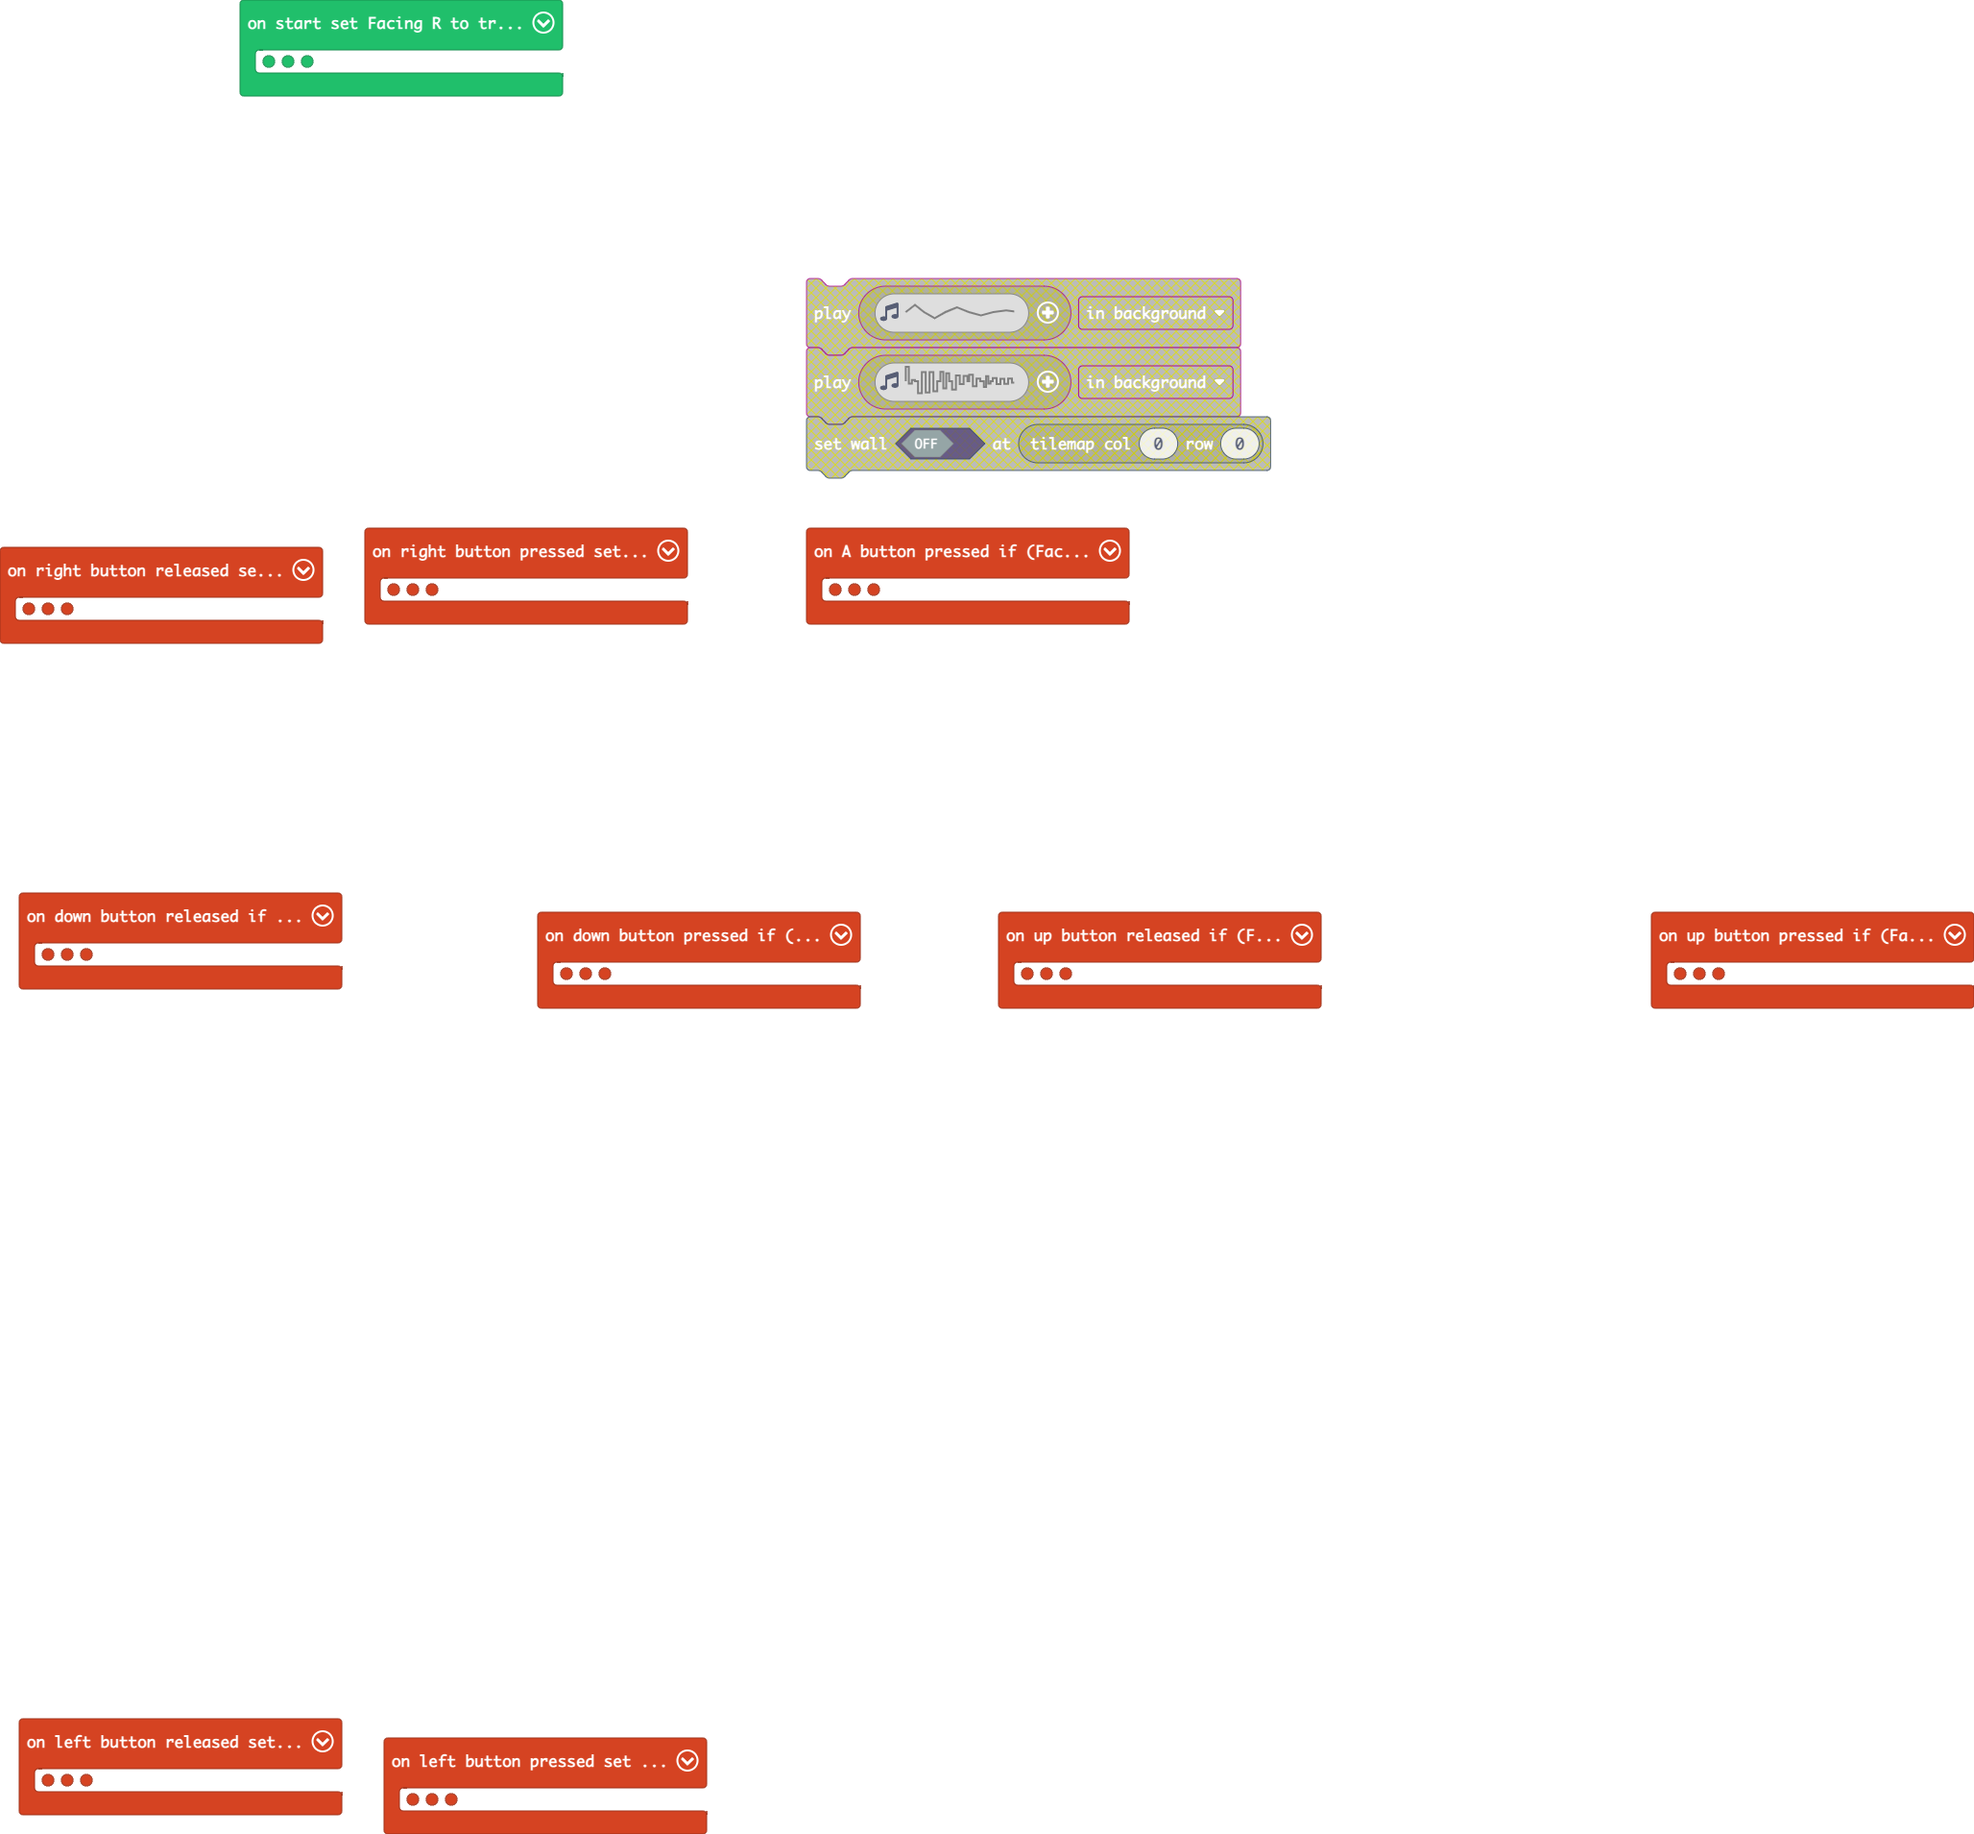
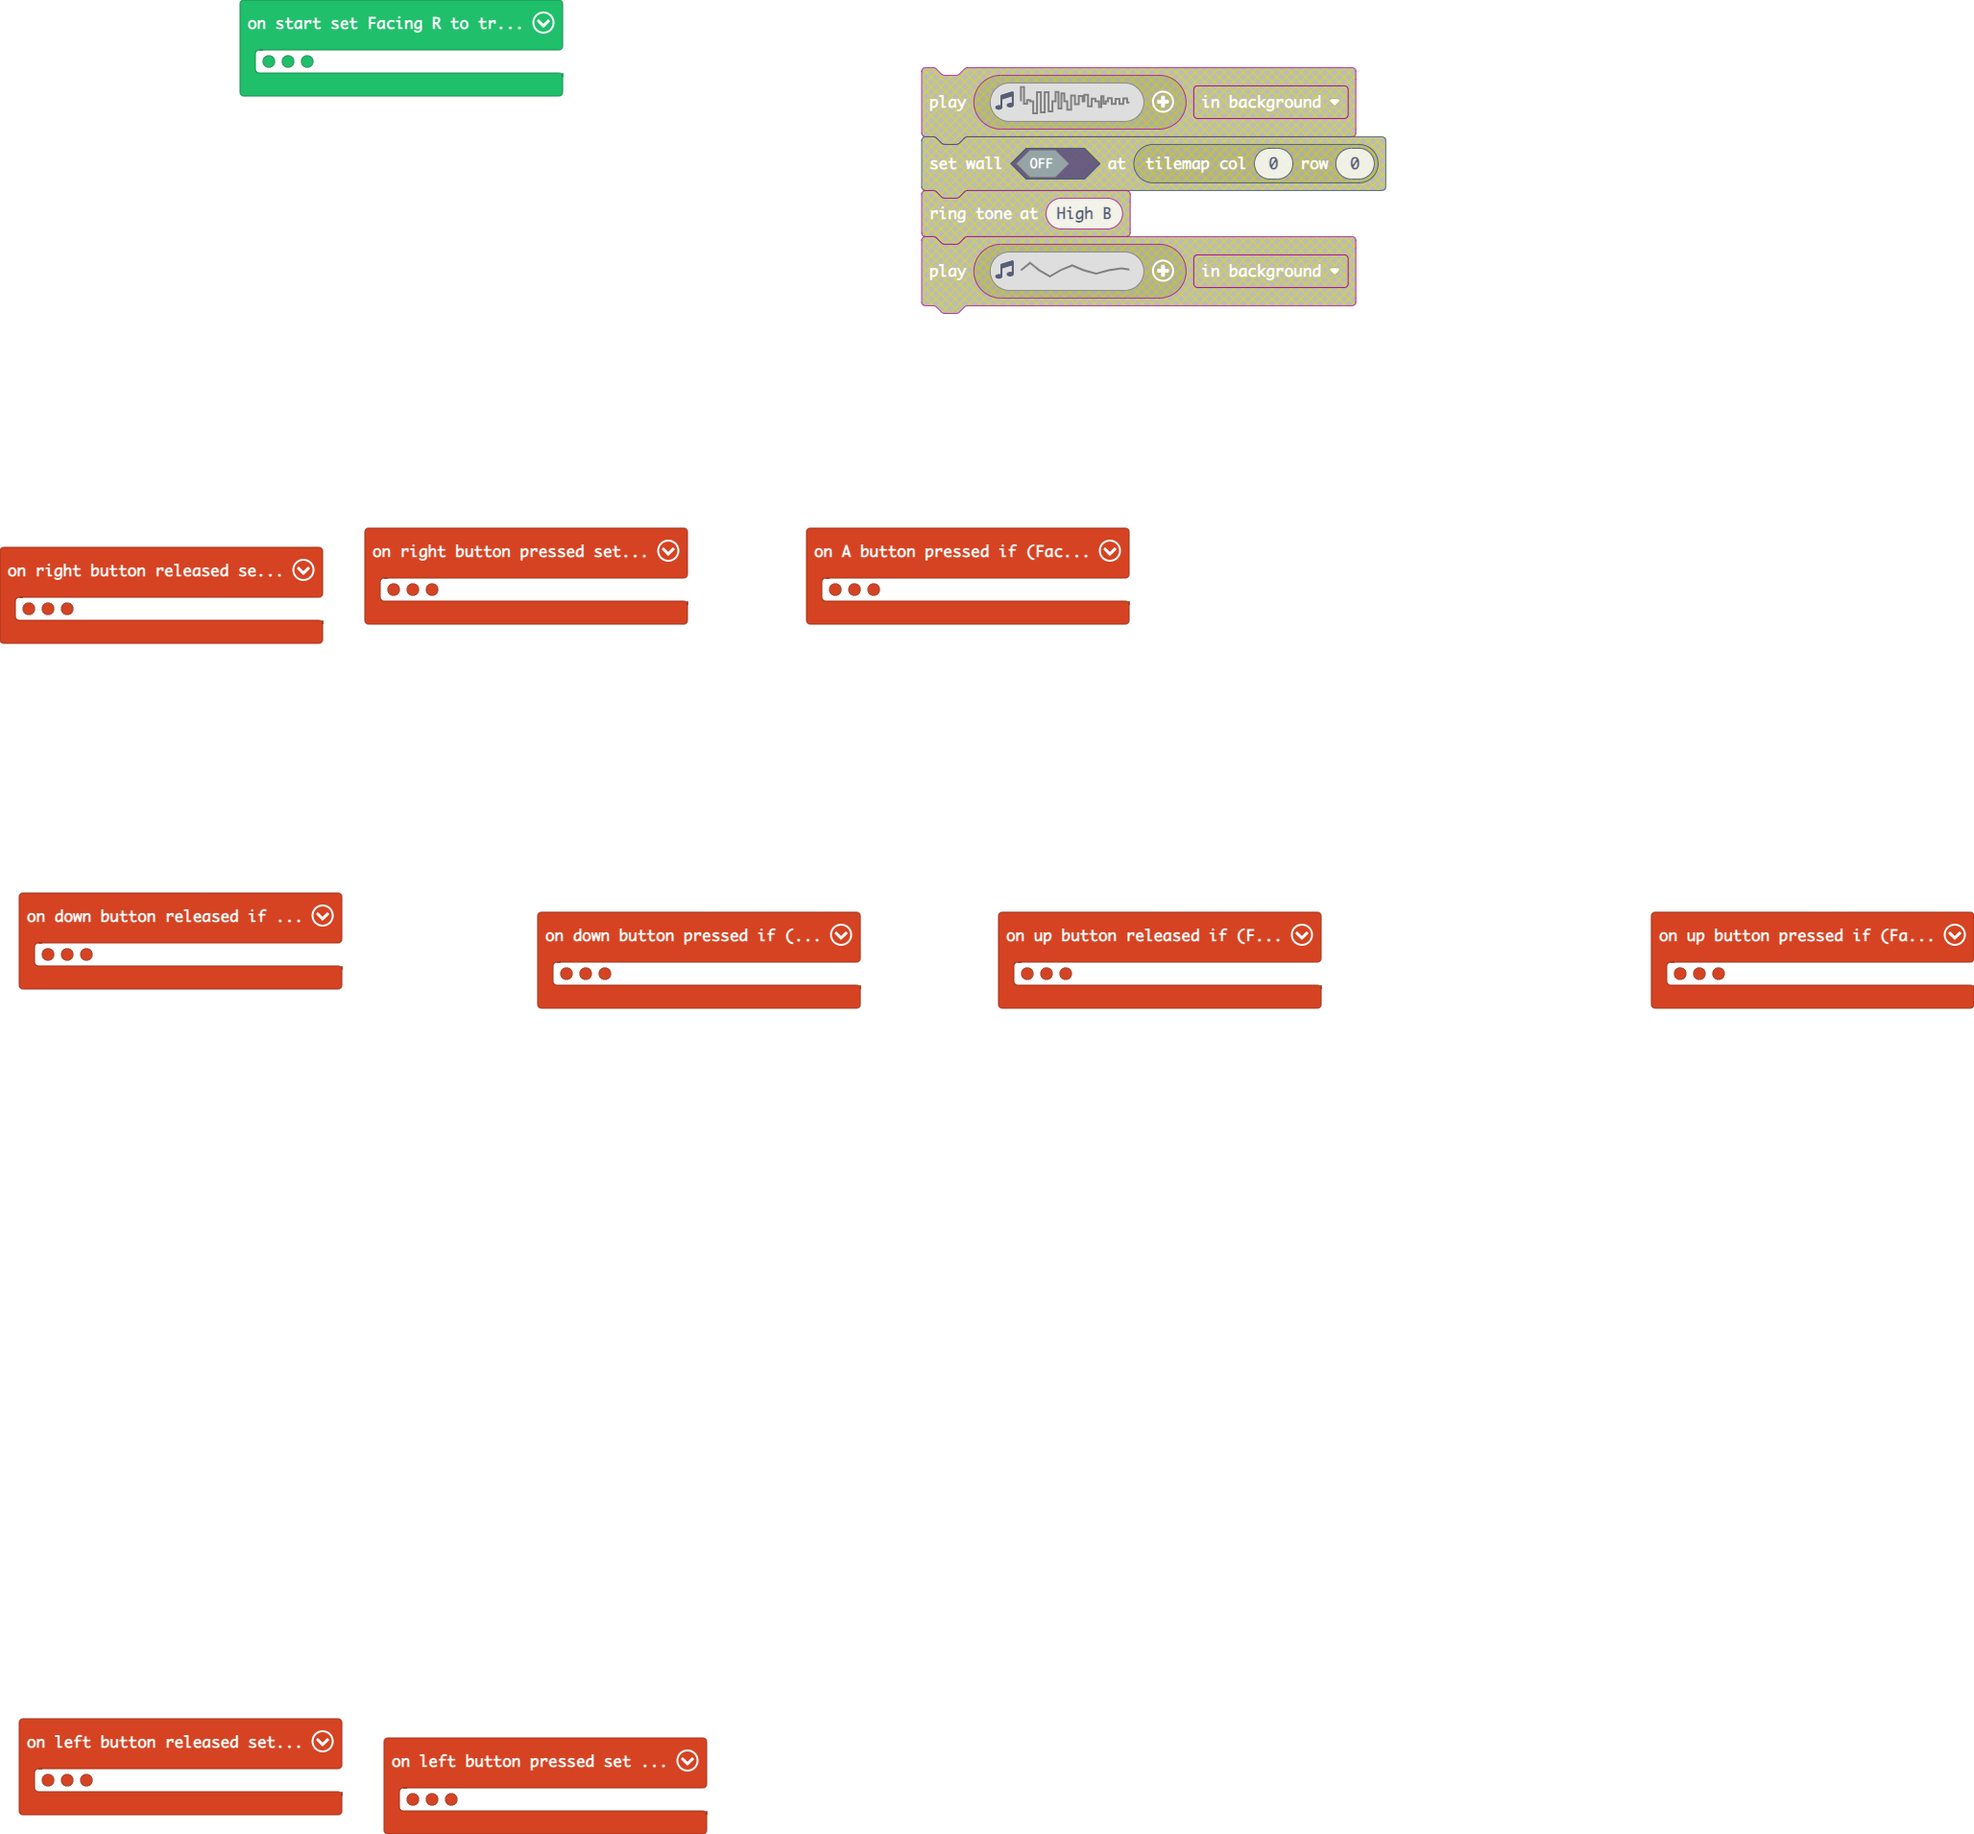
Update main.blocks, main.ts, images.g.jres, images.g.ts

Changed region(s): [[0.4047, 0.0309, 0.716, 0.278]]

diff --git a/images.g.ts b/images.g.ts
@@ -294,144 +294,6 @@ d d a a a c c d d . . . . . . .
 . a a a . . c c . . . . . . . . 
 . f f f f . f f f . . . . . . . 
 `];
-            case "Pirate Shoot":
-            case "anim5":return [img`
-. . e e . . e e . . . . . . . . 
-. e e c e e e e . . . . . . . . 
-. . c e e e e . . . . . . . . . 
-e e e e d d d . . . . . . . . . 
-. f f d d f d f . . . . . . . . 
-. d b d d d b d . . . . . . . . 
-. d d b d d d . . . . . . . . . 
-. . . d d d . . . . . . . . . . 
-. . e e e e e e . . . . . . . . 
-. . c e e d c e e . . . . . . . 
-. e e c c d d c e . . . . . . . 
-. . e e e d d c d d . . . . . . 
-. . a a a c c c d . . . . . . . 
-. . a a a . . c c . . . . . . . 
-. a a a . . c c . . . . . . . . 
-. f f f f . f f f . . . . . . . 
-`, img`
-. . e e . . e e . . . . . . . . 
-. e e c e e e e . . . . . . . . 
-. . c e e e e . . . . . . . . . 
-e e e e d d d . . . . . . . . . 
-. f f d d d f d . . . . . . . . 
-. . d b d d d b . . . . . . . . 
-. . d d b d d . . . . . . . . . 
-. . . d d d . . . . . . . . . . 
-. . c e e c d d . . . . . . . . 
-. e e c c e d d . . . . . . . . 
-. . c e e c e . . . . . . . . . 
-. . e c c e e d . . . . . . . . 
-. . . a a a c c . . . . . . . . 
-. . . a a a . c c . . . . . . . 
-. . a a a . c c . . . . . . . . 
-. . f f f f f f f . . . . . . . 
-`, img`
-. . e e . . e e . . . . . . . . 
-. e e c e e e e . . . . . . . . 
-. . c e e e e . . . . . . . . . 
-e e e e d d d . . . . . . . . . 
-. f f d d d f d . . . . . . . . 
-. . d b d d d b . . . . . . . . 
-. . d d b d d . . . . . . . . . 
-. . . d d d . . . . . . . . . . 
-. . c e e c d d . . . . . . . . 
-. e e c c e d d . . . . . . . . 
-. . c e e c e . . . . . . . . . 
-. . e c c e e d . . . . . . . . 
-. . . a a a c c . . . . . . . . 
-. . . a a a . c c . . . . . . . 
-. . a a a . c c . . . . . . . . 
-. . f f f f f f f . . . . . . . 
-`, img`
-. . e e . . e e . . . . . . . . 
-. e e c e e e e . . . . . . . . 
-. . c e e e e . . . . . . . . . 
-e e e e d d d . . . . . . . . . 
-. f f d d d f d . . . . . . . . 
-. . d b d d d b . . . . . . . . 
-. . d d b d d . . . . . . . . . 
-. . . d d d d d . . . . . . . . 
-. . c c c c d d . . . . . . . . 
-. e e e e e c . . . . . . . . . 
-. . c c c c e . . . . . . . . . 
-. . e e e e e d . . . . . . . . 
-. . . a a a c c . . . . . . . . 
-. . . a a a . c c . . . . . . . 
-. . a a a . c c . . . . . . . . 
-. . f f f f f f f . . . . . . . 
-`, img`
-. . e e . . e e . . . . . . . . 
-. e e c e e e e . . . . . . . . 
-. . c e e e e . . . . . . . . . 
-e e e e d d d . . . . . . . . . 
-. f f d d d f d . . . . . . . . 
-. . d b d d d b . . . . . . . . 
-. . d d b d d . . . . . . . . . 
-. . . d d d . . . . . . . . . . 
-. . c e e c d d . . . . . . . . 
-. e e c c e d d . . . . . . . . 
-. . c e e c e . . . . . . . . . 
-. . e c c e e d . . . . . . . . 
-. . . a a a c c . . . . . . . . 
-. . . a a a . c c . . . . . . . 
-. . a a a . c c . . . . . . . . 
-. . f f f f f f f . . . . . . . 
-`, img`
-. . e e . . e e . . . . . . . . 
-. e e c e e e e . . . . . . . . 
-. . c e e e e . . . . . . . . . 
-e e e e d d d . . . . . . . . . 
-. f f d d d f d . . . . . . . . 
-. . d b d d d b . . . . . . . . 
-. . d d b d d . . . . . . . . . 
-. . . d d d d d . . . . . . . . 
-. . c c c c d d . . . . . . . . 
-. e e e e e c . . . . . . . . . 
-. . c c c c e . . . . . . . . . 
-. . e e e e e d . . . . . . . . 
-. . . a a a c c . . . . . . . . 
-. . . a a a . c c . . . . . . . 
-. . a a a . c c . . . . . . . . 
-. . f f f f f f f . . . . . . . 
-`, img`
-. . e e . . e e . . . . . . . . 
-. e e c e e e e . . . . . . . . 
-. . c e e e e . . . . . . . . . 
-e e e e d d d . . . . . . . . . 
-. f f d d d f d . . . . . . . . 
-. . d b d d d b . . . . . . . . 
-. . d d b d d . . . . . . . . . 
-. . . d d d . . . . . . . . . . 
-. . c e e c d d . . . . . . . . 
-. e e c c e d d . . . . . . . . 
-. . c e e c e . . . . . . . . . 
-. . e c c e e d . . . . . . . . 
-. . . a a a c c . . . . . . . . 
-. . . a a a . c c . . . . . . . 
-. . a a a . c c . . . . . . . . 
-. . f f f f f f f . . . . . . . 
-`, img`
-. . e e . . e e . . . . . . . . 
-. e e c e e e e . . . . . . . . 
-. . c e e e e . . . . . . . . . 
-e e e e d d d . . . . . . . . . 
-. f f d d f d f . . . . . . . . 
-. d b d d d b d . . . . . . . . 
-. d d b d d d . . . . . . . . . 
-. . . d d d . . . . . . . . . . 
-. . e e e e e e . . . . . . . . 
-. . c e e d c e e . . . . . . . 
-. e e c c d d c e . . . . . . . 
-. . e e e d d c d d . . . . . . 
-. . a a a c c c d . . . . . . . 
-. . a a a . . c c . . . . . . . 
-. a a a . . c c . . . . . . . . 
-. f f f f . f f f . . . . . . . 
-`];
             case "GunShoot":
             case "anim6":return [img`
 . . . . . . . . . . . . . . . . 
@@ -1249,16 +1111,122 @@ d d a a a c c d d . . . . . . .
 . a a a . . c c . . . . . . . . 
 . f f f f . f f f . . . . . . . 
 `];
+            case "Pirate Shoot":
+            case "anim5":return [img`
+. . e e . . e e . . . . . . . . 
+. e e c e e e e . . . . . . . . 
+. . c e e e e . . . . . . . . . 
+e e e e d d d . . . . . . . . . 
+. f f d d f d f . . . . . . . . 
+. d b d d d b d . . . . . . . . 
+. d d b d d d . . . . . . . . . 
+. . . d d d . . . . . . . . . . 
+. . e e e e e e . . . . . . . . 
+. . c e e d c e e . . . . . . . 
+. e e c c d d c e . . . . . . . 
+. . e e e d d c d d . . . . . . 
+. . a a a c c c d . . . . . . . 
+. . a a a . . c c . . . . . . . 
+. a a a . . c c . . . . . . . . 
+. f f f f . f f f . . . . . . . 
+`, img`
+. . e e . . e e . . . . . . . . 
+. e e c e e e e . . . . . . . . 
+. . c e e e e . . . . . . . . . 
+e e e e d d d . . . . . . . . . 
+. f f d d d f d . . . . . . . . 
+. . d b d d d b . . . . . . . . 
+. . d d b d d . . . . . . . . . 
+. . . d d d . . . . . . . . . . 
+. . c e e c d d . . . . . . . . 
+. e e c c e d d . . . . . . . . 
+. . c e e c e . . . . . . . . . 
+. . e c c e e d . . . . . . . . 
+. . . a a a c c . . . . . . . . 
+. . . a a a . c c . . . . . . . 
+. . a a a . c c . . . . . . . . 
+. . f f f f f f f . . . . . . . 
+`, img`
+. . e e . . e e . . . . . . . . 
+. e e c e e e e . . . . . . . . 
+. . c e e e e . . . . . . . . . 
+e e e e d d d . . . . . . . . . 
+. f f d d d f d . . . . . . . . 
+. . d b d d d b . . . . . . . . 
+. . d d b d d . . . . . . . . . 
+. . . d d d . . . . . . . . . . 
+. . c e e c d d . . . . . . . . 
+. e e c c e d d . . . . . . . . 
+. . c e e c e . . . . . . . . . 
+. . e c c e e d . . . . . . . . 
+. . . a a a c c . . . . . . . . 
+. . . a a a . c c . . . . . . . 
+. . a a a . c c . . . . . . . . 
+. . f f f f f f f . . . . . . . 
+`, img`
+. . e e . . e e . . . . . . . . 
+. e e c e e e e . . . . . . . . 
+. . c e e e e . . . . . . . . . 
+e e e e d d d . . . . . . . . . 
+. f f d d d f d . . . . . . . . 
+. . d b d d d b . . . . . . . . 
+. . d d b d d . . . . . . . . . 
+. . . d d d d d . . . . . . . . 
+. . c c c c d d . . . . . . . . 
+. e e e e e c . . . . . . . . . 
+. . c c c c e . . . . . . . . . 
+. . e e e e e d . . . . . . . . 
+. . . a a a c c . . . . . . . . 
+. . . a a a . c c . . . . . . . 
+. . a a a . c c . . . . . . . . 
+. . f f f f f f f . . . . . . . 
+`, img`
+. . e e . . e e . . . . . . . . 
+. e e c e e e e . . . . . . . . 
+. . c e e e e . . . . . . . . . 
+e e e e d d d . . . . . . . . . 
+. f f d d d f d . . . . . . . . 
+. . d b d d d b . . . . . . . . 
+. . d d b d d . . . . . . . . . 
+. . . d d d . . . . . . . . . . 
+. . c e e c d d . . . . . . . . 
+. e e c c e d d . . . . . . . . 
+. . c e e c e . . . . . . . . . 
+. . e c c e e d . . . . . . . . 
+. . . a a a c c . . . . . . . . 
+. . . a a a . c c . . . . . . . 
+. . a a a . c c . . . . . . . . 
+. . f f f f f f f . . . . . . . 
+`, img`
+. . e e . . e e . . . . . . . . 
+. e e c e e e e . . . . . . . . 
+. . c e e e e . . . . . . . . . 
+e e e e d d d . . . . . . . . . 
+. f f d d f d f . . . . . . . . 
+. d b d d d b d . . . . . . . . 
+. d d b d d d . . . . . . . . . 
+. . . d d d . . . . . . . . . . 
+. . e e e e e e . . . . . . . . 
+. . c e e d c e e . . . . . . . 
+. e e c c d d c e . . . . . . . 
+. . e e e d d c d d . . . . . . 
+. . a a a c c c d . . . . . . . 
+. . a a a . . c c . . . . . . . 
+. a a a . . c c . . . . . . . . 
+. f f f f . f f f . . . . . . . 
+`];
         }
         return null;
     })
 
     helpers._registerFactory("song", function(name: string) {
         switch(helpers.stringTrim(name)) {
-            case "song1":
[1 lines of base64/hex data omitted]
             case "song2":
[2 lines of base64/hex data omitted]
+            case "song1":
[1 lines of base64/hex data omitted]
+            case "song3":
[1 lines of base64/hex data omitted]
         }
         return null;
     })

diff --git a/main.ts b/main.ts
@@ -149,7 +149,6 @@ let Facing_R = false
 Facing_R = true
 tiles.setCurrentTilemap(tilemap`level`)
 mySprite = sprites.create(assets.image`Pirate`, SpriteKind.Player)
-music.play(music.createSong(assets.song`mySong`), music.PlaybackMode.LoopingInBackground)
 animation.runImageAnimation(
 mySprite,
 assets.animation`Pirate Stand`,
@@ -157,3 +156,4 @@ assets.animation`Pirate Stand`,
 true
 )
 controller.moveSprite(mySprite, 50, 50)
+music.play(music.createSong(assets.song`Song`), music.PlaybackMode.LoopingInBackground)
